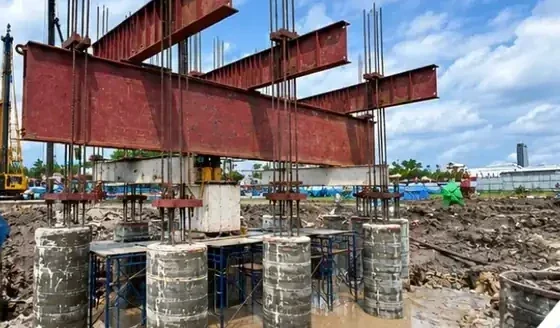
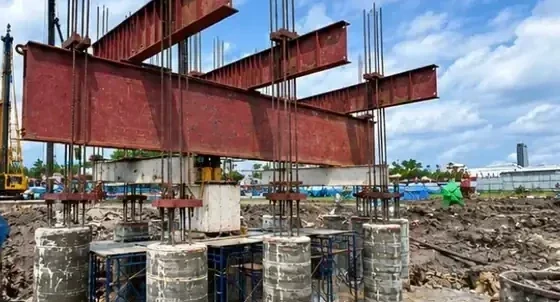
fix(v1.1): expand Unit 03 insights filter pill and finish non-blocking cleanup

diff --git a/assets/js/i18n-data.js b/assets/js/i18n-data.js
@@ -114,7 +114,7 @@ window.ANTHAI_I18N = {
     "insFilterAll": "All",
     "insFilterTesting": "01 Testing",
     "insFilterSteel": "02 Steel",
-    "insFilterPowder": "03 Cement & Mining",
+    "insFilterPowder": "03 Cement & Mining Equipment",
     "insFilterInstr": "04 Instruments",
     "insReadOrig": "Canonical Live URL →",
     "insMigrationNote": "",
@@ -565,7 +565,7 @@ window.ANTHAI_I18N = {
     "insFilterAll": "全部",
     "insFilterTesting": "01 检测勘察",
     "insFilterSteel": "02 钢构代理",
-    "insFilterPowder": "03 水泥矿山",
+    "insFilterPowder": "03 水泥与矿山工艺装备",
     "insFilterInstr": "04 检测仪器",
     "insReadOrig": "原站规范链接 →",
     "insMigrationNote": "",
@@ -1016,7 +1016,7 @@ window.ANTHAI_I18N = {
     "insFilterAll": "ทั้งหมด",
     "insFilterTesting": "01 ทดสอบ",
     "insFilterSteel": "02 เหล็ก",
-    "insFilterPowder": "03 ซีเมนต์และเหมือง",
+    "insFilterPowder": "03 เครื่องจักรปูนซีเมนต์และเหมืองแร่",
     "insFilterInstr": "04 เครื่องมือ",
     "insReadOrig": "ลิงก์ต้นฉบับ →",
     "insMigrationNote": "",

diff --git a/index.html b/index.html
@@ -152,7 +152,7 @@
       <div class="container">
         <div class="unit-grid">
           <a href="./testing.html" class="unit-card">
-            <div class="unit-thumb"><span class="unit-num">01</span><img src="/assets/images/static-load-clean.webp" alt="Hydraulic jack, steel reaction beams, and anchor piles during a static pile load test" width="560" height="328" loading="lazy" /></div>
+            <div class="unit-thumb"><span class="unit-num">01</span><img src="/assets/images/static-load-clean.webp" alt="Hydraulic jack, steel reaction beams, and anchor piles during a static pile load test" width="560" height="302" loading="lazy" /></div>
             <div class="unit-body"><div><h2 class="h3" data-i18n="u1Title">Foundation Testing &amp; Geotech</h2><p class="muted" style="margin-top:4px;font-size:12px;" data-i18n="u1Sub">Pile load testing, integrity screening and geotechnical investigation in Thailand, with traceable field data and project-specific engineering reports.</p></div><span class="unit-link" data-i18n="u1Link">Unit 01 →</span></div>
           </a>
           <a href="./steel-procurement.html" class="unit-card">

diff --git a/insights/index.html b/insights/index.html
@@ -115,7 +115,7 @@
           <button type="button" class="filter-btn" data-filter="all" aria-pressed="true" data-i18n="insFilterAll">All</button>
           <button type="button" class="filter-btn" data-filter="testing" aria-pressed="false" data-i18n="insFilterTesting">01 Testing</button>
           <button type="button" class="filter-btn" data-filter="steel" aria-pressed="false" data-i18n="insFilterSteel">02 Steel</button>
-          <button type="button" class="filter-btn" data-filter="powder" aria-pressed="false" data-i18n="insFilterPowder">03 Cement &amp; Mining</button>
+          <button type="button" class="filter-btn" data-filter="powder" aria-pressed="false" data-i18n="insFilterPowder">03 Cement &amp; Mining Equipment</button>
           <button type="button" class="filter-btn" data-filter="instruments" aria-pressed="false" data-i18n="insFilterInstr">04 Instruments</button>
         </div>
 

diff --git a/scripts/build-insights.py b/scripts/build-insights.py
@@ -311,7 +311,7 @@ def build_latest_home_cards(articles, lang='en'):
     unit_labels = {
         'testing': '01 Testing',
         'steel': '02 Steel',
-        'powder': '03 Cement & Mining',
+        'powder': '03 Cement & Mining Equipment',
         'instruments': '04 Instruments',
     }
     cards = []
